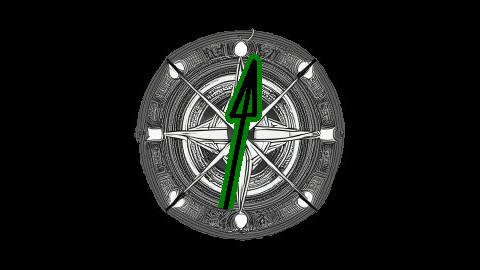
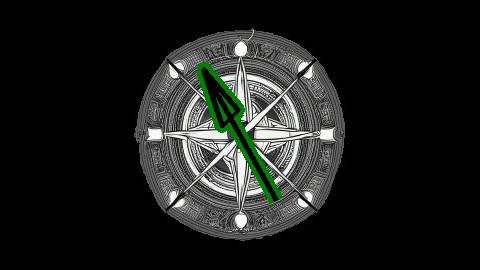
Small changes, moved database outside of this project, electricity api in construction

Changed region(s): [[0.4062, 0.1778, 0.5938, 0.8]]

diff --git a/templates/index.html b/templates/index.html
@@ -21,7 +21,7 @@
     <div>
         <h1>Hello Oulu!</h1>
     </div>
-    {#
+    {# This block is commented as it is no longer needed. Keeping it in for debug tests
     <div>
         <h2>Säätilanne Intiössä</h2>
         {% for key, value in weather.items() %}
@@ -41,6 +41,7 @@
             <h2>Tuuli:</h2>
             <p><span>{{ weather["KESKITUULI"] }} m/s</span>Tuuli:</p>
             <p><span>{{ weather["TUULENSUUNTA"] }} &deg;</span>Suunta:</p>
+            <p><span>{{ weather["TUULISELITE"] }}</span>Voimakkuus:</p>
         </div>
         <div class="div_box div_photo">
             <img src="{{ weather['KUVA'] }}" alt="A photo of motorway in Intiö" id="img_photo">

diff --git a/electricity_api.py b/electricity_api.py
@@ -1,0 +1,72 @@
+from datetime import date, datetime
+from requests import get
+
+import xmltodict
+import config
+
+# In this file, we are going to get electricity prices for today and tomorrow (when available)
+# To use this feature, you will need to register to the site https://transparency.entsoe.eu/
+# and after that, ask permission to use Api by email. You will then generate the needed security token
+# and store it to the config.py file as entsoe_securitytoken variable.
+# More information here: https://transparency.entsoe.eu/content/static_content/Static%20content/web%20api/Guide.html
+
+def getElectricityPrices():
+    # Get datetime as tuple so we can construct period start and end for api call
+    datetuple = date.today().timetuple()
+    # Code to get electricity prices in Finland
+    finland = "10YFI-1--------U"
+    # Construct api call
+    apiurl = "https://web-api.tp.entsoe.eu/api"
+    apiurl += "?securityToken=" + config.entsoe_securitytoken
+    apiurl += "&documentType=A44"
+    apiurl += "&out_Domain=" + finland
+    apiurl += "&in_Domain=" + finland
+    apiurl += "&periodStart=" + str(datetuple[0]) + str(datetuple[1]) + str(datetuple[2] - 1) + "2300"
+    apiurl += "&periodEnd=" + str(datetuple[0]) + str(datetuple[1]) + str(datetuple[2]) + "2300"
+    # Get the data
+    response = get(apiurl)
+
+    # Data comes in xml format, which was a real pain to try and read with python. Luckily, there is this 
+    # nice little module that turns xml data to structured collection of dictionaries and occasional lists.
+    respdict = xmltodict.parse(response.content)
+    print(respdict)
+    print("-" * 80)
+
+    cet = datetime.now().timezone(timedelta = 1, name="CET")
+    print (cet)
+    print("-" * 80)
+
+    # This block collects today's electricity price data, marked by [0] between TimeSeries and Period
+    # Timezone is UTC 
+    i = 0
+    print("start:", respdict['Publication_MarketDocument']['TimeSeries']['Period']['timeInterval']['start'])
+    print("end:", respdict['Publication_MarketDocument']['TimeSeries']['Period']['timeInterval']['end'])
+    # Hourly prices are inside many Point dictionaries, so we need to loop them through to get the data
+    for item in respdict['Publication_MarketDocument']['TimeSeries']['Period']['Point']: 
+        print(i, "\t", item['position'], "\t", item['price.amount'])    
+        i += 1
+    # print("start:", respdict['Publication_MarketDocument']['TimeSeries'][0]['Period']['timeInterval']['start'])
+    # print("end:", respdict['Publication_MarketDocument']['TimeSeries'][0]['Period']['timeInterval']['end'])
+    # # Hourly prices are inside many Point dictionaries, so we need to loop them through to get the data
+    # for item in respdict['Publication_MarketDocument']['TimeSeries'][0]['Period']['Point']: 
+    #     print(i, "\t", item['position'], "\t", item['price.amount'])    
+    #     i += 1
+    # print("-" * 80)
+    # # This block collects tomorrow's electricity price data, marked by [1] between TimeSeries and Period
+    # # Timezone is UTC
+    # i = 0
+    # print("start:", respdict['Publication_MarketDocument']['TimeSeries'][1]['Period']['timeInterval']['start'])
+    # print("end:", respdict['Publication_MarketDocument']['TimeSeries'][1]['Period']['timeInterval']['end'])
+    # # Hourly prices are inside many Point dictionaries, so we need to loop them through to get the data
+    # for item in respdict['Publication_MarketDocument']['TimeSeries'][1]['Period']['Point']: 
+    #     print(i, "\t", item['position'], "\t", item['price.amount'])    
+    #     i += 1
+
+    print("-" * 80)
+    print("\nApi Url:", apiurl)
+    print("-" * 80)
+
+    return "not finished yet"
+
+# DEBUG function call
+# getElectricityPrices()

diff --git a/weather_api.py b/weather_api.py
@@ -5,6 +5,23 @@ import sql
 import photo
 import config
 
+def windSpeed(speed):
+    if 0 <= speed < 1:
+        return "Tyyntä"
+    if 1 <= speed < 4:
+        return "Heikkoa"
+    if 4 <= speed < 8:
+        return "Kohtalaista"
+    if 8 <= speed < 14:
+        return "Navakkaa"
+    if 14 <= speed < 21:
+        return "Kovaa"
+    if 21 <= speed < 33:
+        return "Myrsky"
+    if 33 <= speed:
+        return "Hirmumyrsky"
+    
+
 def getWeatherData():
     return_value = dict()
     getapi = False
@@ -40,7 +57,7 @@ def getWeatherData():
     if getapi == True:
         # print this to terminal running the framework to see where the data came from
         print("api")
-        
+
         # Url for open source api call, provider digitraffic.fi, which maintains lots of weather stations along Finnish road network
         # This site is located alongside Highway no 4, Oulu (Intiö), Finland (https://tie.digitraffic.fi/api/weather/v1/stations/12019)
         # List of all weather stations: https://tie.digitraffic.fi/api/weather/v1/stations
@@ -89,7 +106,10 @@ def getWeatherData():
 
         # Draw wind direction compass and save it as compass.jpg
         photo.drawArrow(sensors[14]['value'])
- 
+
+        # Get wind speed description
+        windspeed = windSpeed(sensors[12]['value'])
+
         # SensorValueDescriptionFi values
         # - Pouta
         # - Heikko
@@ -108,6 +128,7 @@ def getWeatherData():
                         sensors[16]['name']:sensors[16]['value'],
                         sensors[16]['name']+"_KUVAUS":sensors[16]['sensorValueDescriptionFi'],
                         sensors[16]['name']+"_DESC":sensors[16]['sensorValueDescriptionEn'],
+                        "TUULISELITE": windspeed,
                         "KUVAUSAIKA":localpresettime,
                         "KUVA": b64photo}
         
@@ -133,6 +154,10 @@ def getWeatherData():
     else:
         # print this to terminal running the framework to see where the data came from
         print("sql")
+
+        # Get wind speed description
+        windspeed = windSpeed(weather[3])
+
         # Create dictionary from sql values
         return_value = {"MITTAUSAIKA":weather[1],
                         "ILMA":weather[2],
@@ -142,6 +167,7 @@ def getWeatherData():
                         "SADE":weather[6],
                         "SADE_KUVAUS":weather[7],
                         "SADE_DESC":weather[8],
+                        "TUULISELITE":windspeed,
                         "KUVAUSAIKA": photoinfo[1],
                         "KUVA": photoinfo[2]}
     # Return the correct dictionary

diff --git a/app.py b/app.py
@@ -13,7 +13,9 @@
 # Import needed libraries and functions
 from flask import Flask, render_template
 from weather_api import getWeatherData
+from electricity_api import getElectricityPrices
 import sqlite3
+import config
 
 # Initialize app
 app = Flask(__name__)
@@ -23,6 +25,9 @@ app = Flask(__name__)
 # Tell flask to render template page index.html
 def root():
     weather = getWeatherData()
+    if config.show_electricityprices == True:
+        # Not ready yet
+        electricity = getElectricityPrices()
     return render_template("index.html", weather = weather)
 
 

diff --git a/sql.py b/sql.py
@@ -1,7 +1,8 @@
 import sqlite3
+import config
 
 # Set the path to database file
-path = "static/db/website.db"
+path = config.database_path + "website.db"
 
 # Create tables to database if they don't exist already
 def createTables():
